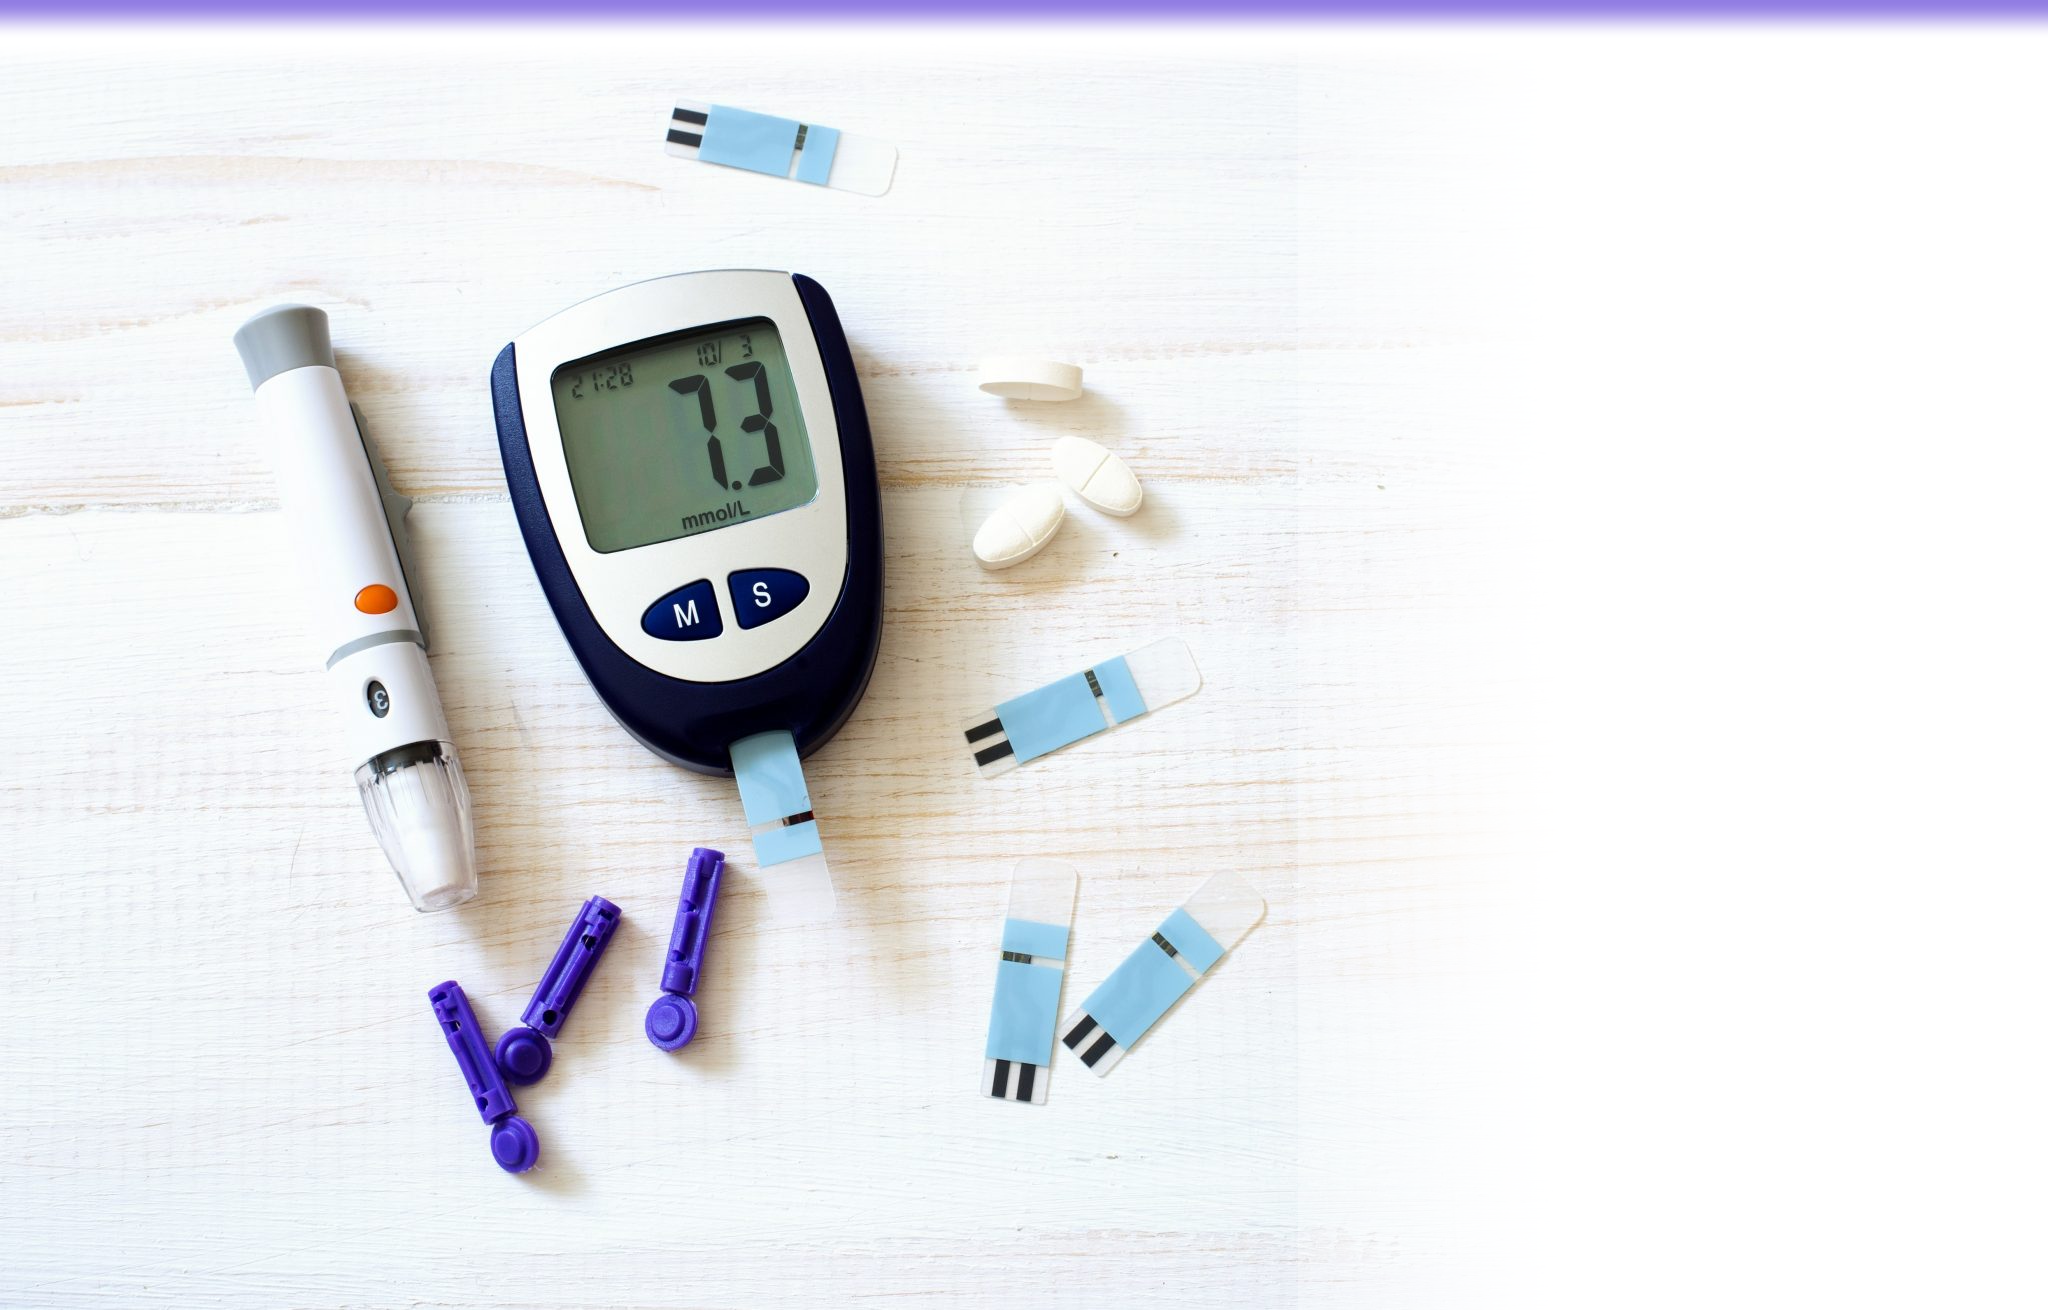
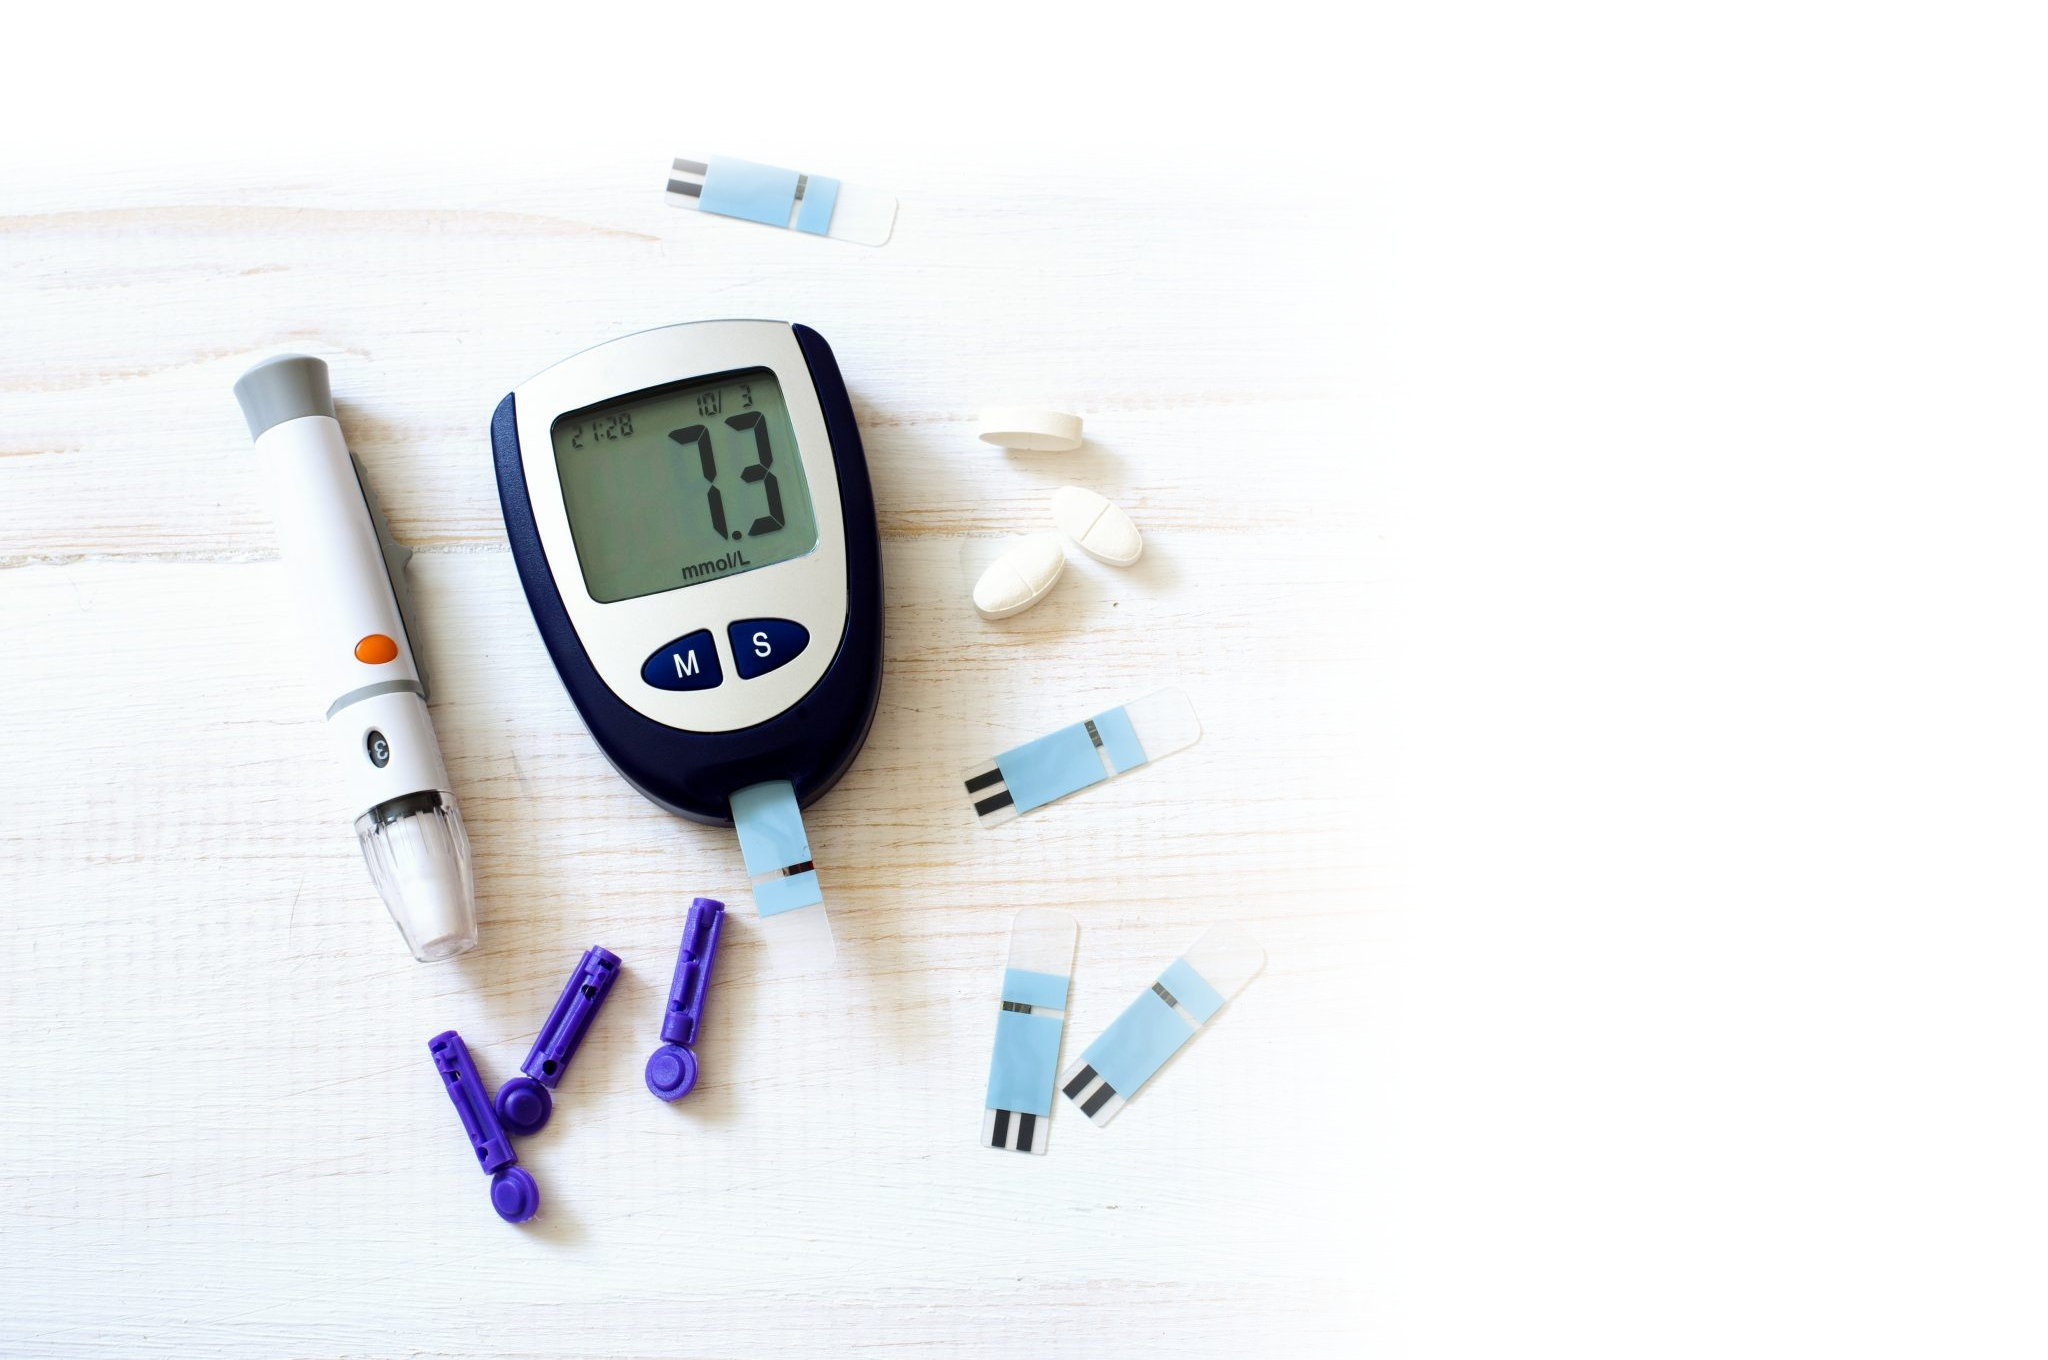
main: add right-menu

diff --git a/style.css b/style.css
@@ -11,7 +11,7 @@ header {
   width: 1263px;
   height: 100px;
   background: #917de3;
-  margin: -8px -8px 0px -8px;
+  margin: -8px -8px 0 -8px;
 }
 
 header img {
@@ -34,16 +34,16 @@ header div.header_menu ul {
 
 header div.header_menu li {
   display: inline;
-  padding: 0px 50px 0px 40px;
+  padding: 0 50px 0 40px;
   border-right: 4px dotted white;
 }
 
 header div.header_menu li:hover {
-  padding: 0px 40px 0px 30px;
+  padding: 0 40px 0 30px;
 }
 
 header div.header_menu li:first-child:hover {
-  padding: 0px 40px 0px 90px;
+  padding: 0 40px 0 90px;
 }
 
 header div.header_menu li:last-child {
@@ -122,7 +122,7 @@ body div.main_page p:last-child {
 }
 
 footer {
-  margin: 0 0px -8px -8px;
+  margin: 0 0 -8px -8px;
   width: 1263px;
   height: 100px;
   background-image: url(bottom.jpg);
@@ -142,19 +142,53 @@ footer div.footer_menu {
   color: white;
 }
 
-footer div.footer_menu h3 {
-  margin: -50px 0 0 400px;
-}
-
 body div.list {
   position: relative;
-  margin: 0 0px -8px -8px;
+  margin: 0 0 -8px -8px;
 }
 
 body div.list div.menu {
   position: absolute;
-  top: 50px;
-  right: 20px;
+  top: 100px;
+  left: 820px;
 }
+
+body div.list div.menu li {
+  margin-right: -8px;
+  text-align: justify;
+  margin-bottom: 120px;
+  padding: 2px 20px;;
+}
+
+body div.list div.menu li:hover {
+  color: white;
+  background: #cfcfcf;
+  border-top-left-radius: 50px;
+  border-bottom-left-radius: 50px;
+  box-shadow: 0 0 25px 30px #cfcfcf;
+  transition: all 1s ease-out;
+}
+
+body div.list div.menu li:hover img {
+  transition: all 1s ease-out 0.5s;
+  border: 4px solid white;
+}
+
+body div.list div.menu li img {
+  margin-top: 20px;
+  position: absolute;
+  width: 50px;
+  height: 50px;
+  padding: 10px;
+  border: 4px dotted #cfcfcf;
+  border-radius: 100px;
+}
+
+body div.list div.menu h4 {
+  padding: 15px 0 15px 100px;
+}
+
+
+
 
 

diff --git a/about.html b/about.html
@@ -25,10 +25,23 @@
       <img src="list_img.png" style="width: 1263px;">
       <div class="menu">
         <ul>
-          <li></li>
-          <li></li>
-          <li></li>
+          <li><a href="#1"><img src="1.png"></a><h4>Сахарный диабет: причины и симптомы</h4></li>
+          <li><a href="#2"><img src="2.png"></a><h4>Лечение: инсулин, его виды, помповая инсулинотерапия</h4></li>
+          <li><a href="#3"><img src="3.png"></a><h4>Факторы риска: осложнения и наследственность</h4></li>
         </ul>
       </div>
     </div>
+
+    <div id="1">
+
+    </div>
+
+    <div id="2">
+
+    </div>
+
+    <div id="3">
+      
+    </div>
   </body>
+</html>

diff --git a/index.html b/index.html
@@ -61,7 +61,7 @@
           <li>Наш телефон: 8 800 55-35-35</li>
           <li>Наша почта: diainfo@gmail.com</li>
         </ul>
-        <h3>Присоединяйтесь к нам в социальных сетях:</h3>
+        <h3 style="margin: -50px 0 0 400px;">Присоединяйтесь к нам в социальных сетях:</h3>
         <ul style="margin: -60px 0 0 745px">
           <li style="display: inline; padding-left: 50px">
             <a href=""

diff --git a/script.js b/script.js
@@ -3,7 +3,7 @@ function SwapBackground(a_id, li_id) {
     let li = document.getElementById(li_id);
     a.style.color = 'black';
     a.style.background = 'white';
-    a.style.borderBottom = '2px solid white';
+    a.style.borderBottom = '2px solid black';
     a.style.padding = '5px 10px';
     a.style.borderRadius = '15px';
     li.style.padding = li_id == '1' && a_id == '1.1' ? '0px 40px 0px 90px' : li.style.padding = '0px 40px 0px 30px';
